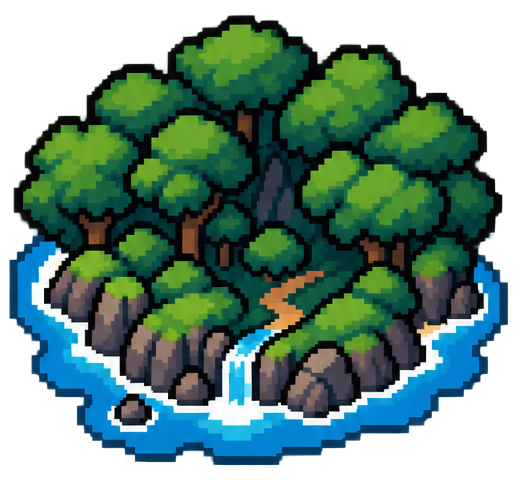
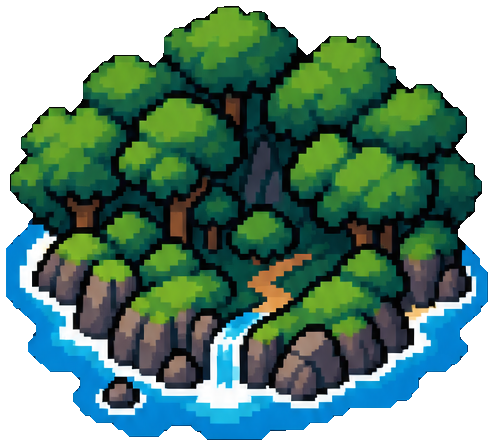
Polish do mapa: remove halo azul e moldura duplicada, botão de fechar visível
- Erode a auréola clara em volta da silhueta de cada ilha (fica mais
  integrada ao pergaminho) e remove o halo de água em CSS atrás delas
  (buildOceanHalos em mapMenu.js) — pedido do Hugo, "podemos tirar esses
  círculos azuis".
- parchment_bg.png já vem com moldura de madeira + rebites pintada na
  própria arte; a .menu-frame genérica (gradiente marrom + padding) por
  trás dela duplicava o contorno. Reseta só pro modo mapa via
  :has(.menu-panel.map-mode).
- Botão de fechar do mapa (.map-close) quase invisível (fundo
  rgba(43,27,18,.14)) contra a arte nova, mais detalhada que o gradiente
  antigo — fundo sólido + anel dourado + sombra agora, sempre destaca.

diff --git a/src/ui/menu.css b/src/ui/menu.css
@@ -708,19 +708,17 @@
   position: relative;
   overflow: hidden;
 }
+/* parchment_bg.png já vem com sua própria moldura de madeira + rebites
+   pintada na arte (cantos, gemas, parafusos) — a moldura genérica de
+   .menu-frame (gradiente marrom liso + padding) por trás dela só duplicava
+   o contorno, ficando uma borda dupla/deslocada. Reseta pro mapa. */
+.menu-frame:has(.menu-panel.map-mode) {
+  background: none;
+  padding: 0;
+  border-radius: 8px;
+}
 .menu-panel.map-mode img {
   image-rendering: pixelated;
-}
-
-/* Halo de água — o background de verdade vem inline (ver buildOceanHalos
-   em mapMenu.js): uma lista de radial-gradient, uma por ilha JÁ
-   DESCOBERTA. Estilo Civilization — a área revelada acompanha o que o
-   jogador visitou, não uma névoa decorativa numa posição fixa. Fora dos
-   círculos não tem nada pintado aqui, então o pergaminho (parchment_bg.png
-   no .menu-panel.map-mode) aparece por baixo normalmente. */
-.map-ocean {
-  position: absolute;
-  inset: 0;
 }
 
 /* Rotas de navegação — linha tracejada tipo tinta entre a ilha atual e cada
@@ -890,23 +888,31 @@
 .map-header .menu-hint {
   color: rgba(43, 27, 18, 0.65);
 }
+/* Antes era um círculo quase transparente (rgba .14) — sumia contra a
+   arte do pergaminho/moldura de madeira, que agora tem muito mais detalhe
+   e contraste do que o gradiente liso de antes. Fundo sólido + anel
+   dourado + sombra pra sempre destacar, não importa o que tiver atrás. */
 .map-close {
   font: inherit;
-  font-size: 15px;
+  font-size: 16px;
+  font-weight: 700;
   line-height: 1;
-  width: 22px;
-  height: 22px;
-  border: none;
+  width: 26px;
+  height: 26px;
+  border: 2px solid #8a5a2c;
   border-radius: 50%;
-  background: rgba(43, 27, 18, 0.14);
-  color: #2b1b12;
+  background: #2b1b12;
+  color: #f5ebc8;
   cursor: none;
   display: flex;
   align-items: center;
   justify-content: center;
+  box-shadow: 0 2px 5px rgba(0, 0, 0, 0.5);
+  transition: background 0.15s ease, transform 0.15s ease;
 }
 .map-close:hover {
-  background: rgba(43, 27, 18, 0.26);
+  background: #4a2f1a;
+  transform: scale(1.1);
 }
 .menu-close {
   font: inherit;

diff --git a/src/ui/mapMenu.js b/src/ui/mapMenu.js
@@ -85,31 +85,6 @@ function pct(value) {
   return parseFloat(value);
 }
 
-const OCEAN_COLOR = '#2e6887';
-
-// Halo de água azul ao redor de CADA ilha já descoberta — estilo
-// Civilization: a área revelada acompanha o que o jogador realmente já
-// visitou (context.discoveredIslands), não um raio decorativo fixo em cima
-// da posição atual. Ilha nunca visitada não ganha halo nenhum (continua só
-// pergaminho por trás da silhueta). Implementado como uma lista de
-// radial-gradient (um por ilha conhecida) direto no background do
-// `.map-ocean` — mais simples que máscara+PNG e não precisa de asset extra.
-function buildOceanHalos(knownCount) {
-  const slots = KNOWN_SLOTS.slice(0, knownCount);
-  return slots
-    .map((pos) => {
-      // Desloca o centro do halo do canto superior-esquerdo da ilha (onde
-      // `top`/`left` ancoram, ver .map-island) pro centro visual da arte.
-      const cx = pct(pos.left) + 6;
-      const cy = pct(pos.top) + 8;
-      // Mesmo raio nos dois stops = sem faixa de transição (gradiente de
-      // verdade), borda dura de círculo — pixel art não usa opacidade
-      // degradê, é cor chapada até a borda.
-      return `radial-gradient(circle at ${cx}% ${cy}%, ${OCEAN_COLOR} 0, ${OCEAN_COLOR} 78px, transparent 78px)`;
-    })
-    .join(', ');
-}
-
 // Linhas de rota tracejadas, tipo tinta, ligando a ilha atual (sempre slot
 // 0) a cada outra ilha já descoberta no mapa — reforça a leitura de "carta
 // de navegação" em vez de ícones soltos no vazio. `viewBox="0 0 100 100"`
@@ -169,7 +144,6 @@ function buildMapHtml() {
         <button type="button" class="map-close" data-action="close" aria-label="Fechar mapa">×</button>
       </div>
     </div>
-    <div class="map-ocean" style="background: ${buildOceanHalos(knownIds.length)}"></div>
     ${buildRoutesHtml(knownIds.length)}
     ${islandsHtml}
     ${unknownHtml}
